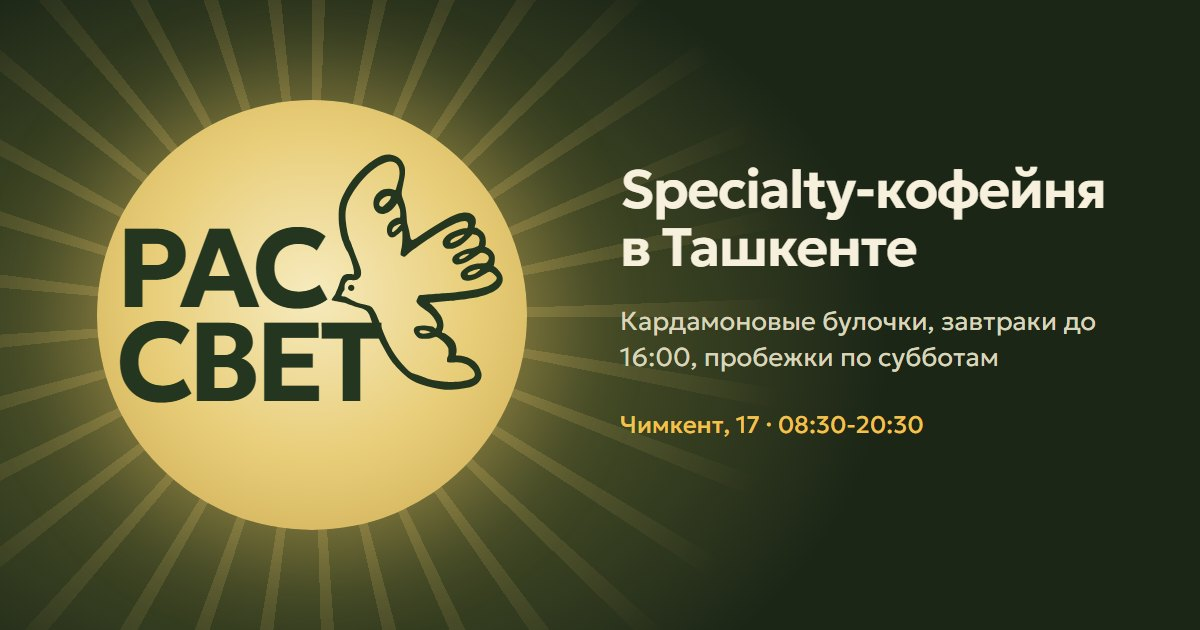
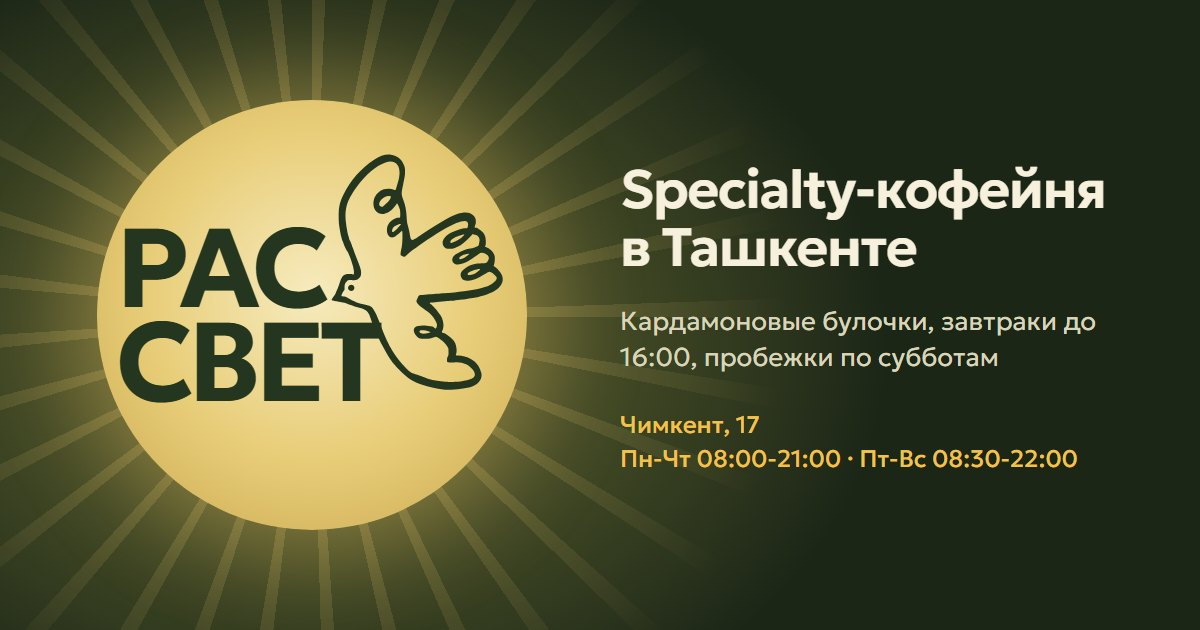
Превью ссылки с новыми часами работы

Changed region(s): [[0.5242, 0.6635, 0.8942, 0.754]]

diff --git a/index.html b/index.html
@@ -14,7 +14,7 @@
   <meta property="og:title" content="Рассвет · specialty-кофейня в Ташкенте">
   <meta property="og:description" content="Кардамоновые булочки, завтраки до 16:00, пробежки по субботам. Чимкент, 17. Пн-Чт 08:00-21:00, Пт-Вс 08:30-22:00.">
   <meta property="og:url" content="https://lobanov76.github.io/rassvet-coffee/">
-  <meta property="og:image" content="https://lobanov76.github.io/rassvet-coffee/img/og.jpg">
+  <meta property="og:image" content="https://lobanov76.github.io/rassvet-coffee/img/og.jpg?v=2">
   <meta property="og:image:width" content="1200">
   <meta property="og:image:height" content="630">
   <meta property="og:image:alt" content="Логотип Рассвета на солнце: Specialty-кофейня в Ташкенте, Чимкент, 17">
